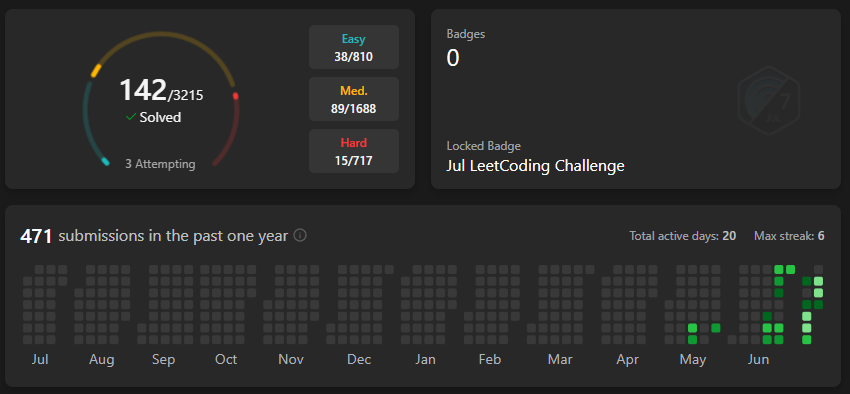
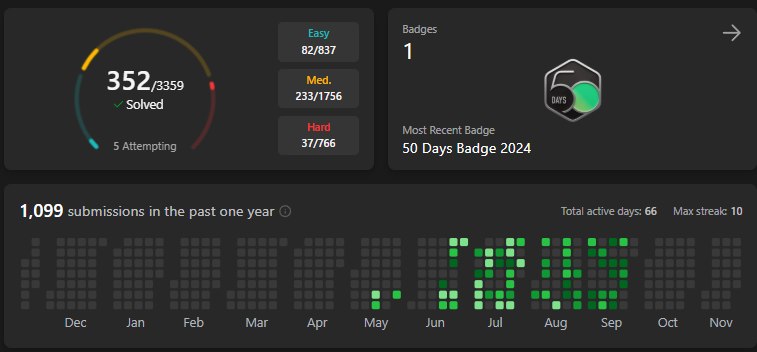
update progress

diff --git a/neetcode/templates/template-binary-tree.py b/neetcode/templates/template-binary-tree.py
@@ -10,50 +10,49 @@ class TreeNode:
         self.right = right
 
 
-def list_to_binary_tree(lst: List[int]) -> Optional[TreeNode]:
-    if not lst:
-        return None
-    root = TreeNode(lst[0])
-    queue = [root]
-    i = 1
-    while queue and i < len(lst):
-        node = queue.pop(0)
-        if lst[i] is not None:
-            node.left = TreeNode(lst[i])
-            queue.append(node.left)
-        i += 1
-        if i < len(lst) and lst[i] is not None:
-            node.right = TreeNode(lst[i])
-            queue.append(node.right)
-        i += 1
-    return root
-
-
-def binary_tree_to_list(root: Optional[TreeNode]) -> List[int]:
-    if not root:
-        return []
-    result = []
-    queue = [root]
-    while queue:
-        node = queue.pop(0)
-        if node:
-            result.append(node.val)
-            queue.append(node.left)
-            queue.append(node.right)
-    return result
-
-
 class TestSolution(unittest.TestCase):
     def setUp(self):
         self.solution = Solution()
 
-    def test_isValid(self):
-        print()
+    def list_to_binary_tree(self, lst: List[Optional[int]]) -> Optional[TreeNode]:
+        if not lst:
+            return None
+        root = TreeNode(lst[0])
+        queue = [root]
+        i = 1
+        while queue and i < len(lst):
+            node = queue.pop(0)
+            if i < len(lst) and lst[i] is not None:
+                node.left = TreeNode(lst[i])
+                queue.append(node.left)
+            i += 1
+            if i < len(lst) and lst[i] is not None:
+                node.right = TreeNode(lst[i])
+                queue.append(node.right)
+            i += 1
+        return root
+
+    def binary_tree_to_list(self, root: Optional[TreeNode]) -> List[Optional[int]]:
+        if not root:
+            return []
+        result = []
+        queue = [root]
+        while queue:
+            node = queue.pop(0)
+            if node:
+                result.append(node.val)
+                queue.append(node.left)
+                queue.append(node.right)
+            else:
+                result.append(None)
+        while result and result[-1] is None:
+            result.pop()
+        return result
 
 
 class Solution:
     def isValid(self, s: str) -> bool:
-        print()
+        return None
 
 
 if __name__ == "__main__":

diff --git a/leetcode/2-two-pointers/283-easy-move-zeroes.py b/leetcode/2-two-pointers/283-easy-move-zeroes.py
@@ -27,7 +27,7 @@ class Solution:
     def moveZeroes(self, nums: List[int]) -> None:
         l, r = 0, 1
         while l < len(nums) and r < len(nums):
-            if nums[l] != 0:
+            if nzums[l] != 0:
                 l += 1
                 if r < l:
                     r = l + 1

diff --git a/leetcode/_notes/general_notes.py b/leetcode/_notes/general_notes.py
@@ -140,4 +140,3 @@ while minH:
         count[c] -= 1
         if count[c] == 0:
             heapq.heappop(minH)
-

diff --git a/README.md b/README.md
@@ -4,6 +4,4 @@ This repo contains tasks and solutions for LeetCode and NeetCode challenges I ca
 
 # My Progress
 
-[LeetCode Dashboard](https://leetcode.com/u/6iEph3Npnj/)
-
 ![](./docs/progress.png)
